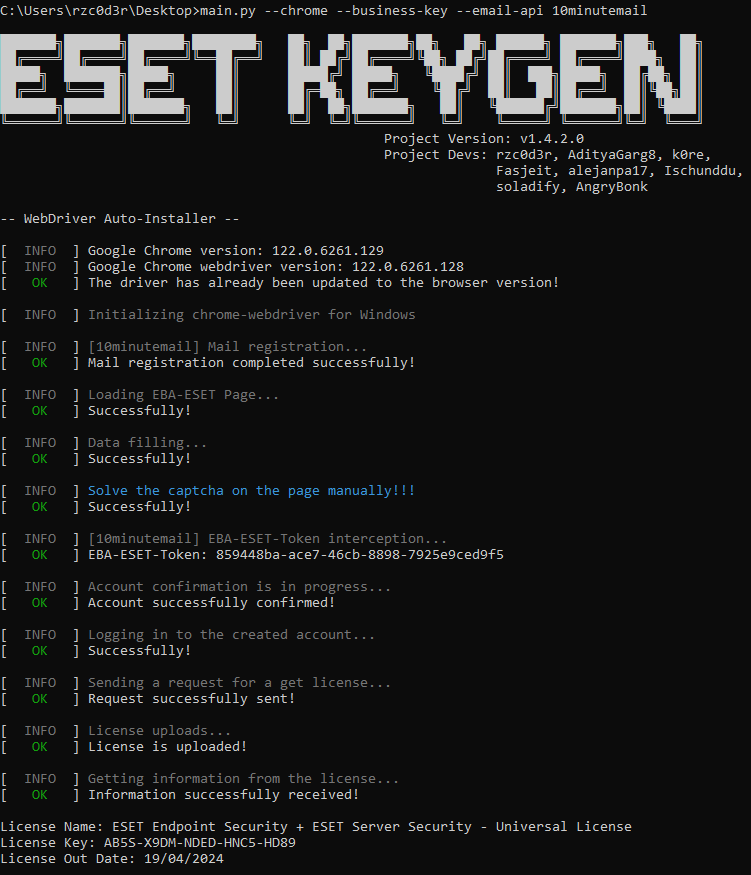
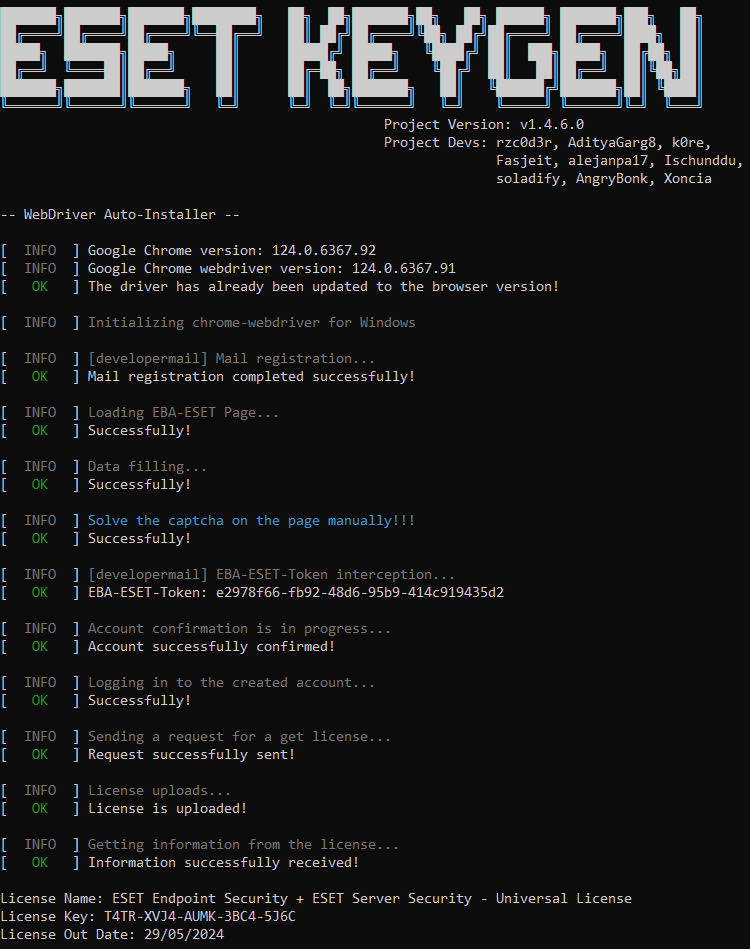
Update to v1.4.6.0
1. Disabled cloudflare captcha algorithm for Hi2InAPI (again hi2in is available in Github Actions)
2. Increased support for input mail address syntax (When using --custom-email-api)
Now xx-xx-xxxxxx@example.com is correct mail address syntax

3. Added developermail to --email-api
It email API is the fastest currently available, and it also works in Github Actions!

4. The default is now developermail instead of 1secmail
5. Updated documentation and screenshots

Changed region(s): [[0.0, 0.216, 0.8587, 1.0], [0.0, 0.0, 0.9813, 0.216]]

diff --git a/main.py b/main.py
@@ -12,6 +12,11 @@ import zipfile
 import shutil
 import random
 import string
+
+import email
+import email.parser
+from email import policy
+
 import time
 import sys
 import os
@@ -24,7 +29,7 @@ LOGO = """
 ██╔══╝  ╚════██║██╔══╝     ██║      ██╔═██╗ ██╔══╝    ╚██╔╝  ██║   ██║██╔══╝  ██║╚██╗██║   
 ███████╗███████║███████╗   ██║      ██║  ██╗███████╗   ██║   ╚██████╔╝███████╗██║ ╚████║   
 ╚══════╝╚══════╝╚══════╝   ╚═╝      ╚═╝  ╚═╝╚══════╝   ╚═╝    ╚═════╝ ╚══════╝╚═╝  ╚═══╝                                                                      
-                                                Project Version: v1.4.5.1
+                                                Project Version: v1.4.6.0
                                                 Project Devs: rzc0d3r, AdityaGarg8, k0re,
                                                               Fasjeit, alejanpa17, Ischunddu,
                                                               soladify, AngryBonk, Xoncia
@@ -159,6 +164,46 @@ class SecEmailAPI(object):
         if r.status_code != 200:
             raise RuntimeError('SecEmailAPI: API access error!')
         return r.json()
+
+class DeveloperMailAPI(object):
+    def __init__(self):
+        self.email = ''
+        self.email_name = ''
+        self.headers = {}
+        self.api_url = 'https://www.developermail.com/api/v1'
+    
+    def init(self):
+        r = requests.put(f'{self.api_url}/mailbox')
+        self.email_name, token = list(r.json()['result'].values())
+        self.email = self.email_name+'@developermail.com'
+        self.headers = {'X-MailboxToken': token}
+
+    def __parse_message(self, raw_message_body):
+        message_bytes = raw_message_body.encode('utf-8')
+        msg = email.parser.BytesParser(policy=policy.default).parsebytes(message_bytes)
+        message_subject = msg['subject']
+        message_from = msg['from']
+        message_body = str(msg.get_payload(decode=True).decode(msg.get_content_charset())) # decoding MIME-Type to html
+        return {'subject':message_subject, 'from':message_from, 'body':message_body}
+
+    def get_messages(self):
+        # get message IDs
+        r = requests.get(
+            f'{self.api_url}/mailbox/{self.email_name}',
+            headers=self.headers
+        )
+        message_ids = r.json()['result']
+        if message_ids == []:
+            return None
+        # parse messages
+        messages = []
+        for message_id in message_ids:
+            r = requests.get(f'{self.api_url}/mailbox/{self.email_name}/messages/{message_id}', headers=self.headers)
+            raw_message_body = r.json()['result']
+            messages.append(self.__parse_message(raw_message_body))
+        if messages == []:
+            messages = None
+        return messages
 
 class Hi2inAPI(object):
     def __init__(self, driver: Chrome):
@@ -435,6 +480,14 @@ class SharedTools(object):
                         activated_href = email_obj.get_message(message['id'])['body']
                     elif message['from'].find('product.eset.com') != -1:
                         activated_href = email_obj.get_message(message['id'])['body']
+            elif args['email_api'] == 'developermail':
+                messages = email_obj.get_messages()
+                if messages is not None:
+                    message = messages[-1]
+                    if eset_business and message['subject'].find('activation') != -1:
+                        activated_href = message['body']
+                    elif message['from'].find('product.eset.com') != -1:
+                        activated_href = message['body']
             elif args['email_api'] == 'hi2in':
                 email_obj.open_inbox()
                 try:
@@ -722,7 +775,7 @@ class EsetRegister(object):
                 token = SharedTools.parseToken(self.email_obj, self.driver, max_iter=100, delay=3)
                 self.driver.switch_to.window(self.window_handle)
             else:
-                token = SharedTools.parseToken(self.email_obj, max_iter=100, delay=3) # 1secmail
+                token = SharedTools.parseToken(self.email_obj, max_iter=100, delay=3) # 1secmail, developermail
         console_log(f'ESET-Token: {token}', OK)
         console_log('\nAccount confirmation is in progress...', INFO)
         self.driver.get(f'https://login.eset.com/link/confirmregistration?token={token}')
@@ -864,7 +917,7 @@ class EsetBusinessRegister(object):
                 token = SharedTools.parseToken(self.email_obj, self.driver, True, max_iter=100, delay=3)
                 self.driver.switch_to.window(self.window_handle)
             else:
-                token = SharedTools.parseToken(self.email_obj, eset_business=True, max_iter=100, delay=3) # 1secmail
+                token = SharedTools.parseToken(self.email_obj, eset_business=True, max_iter=100, delay=3) # 1secmail, developermail
         console_log(f'EBA-ESET-Token: {token}', OK)
         console_log('\nAccount confirmation is in progress...', INFO)
         self.driver.get(f'https://eba.eset.com/Account/InitActivation?token={token}')
@@ -947,9 +1000,9 @@ if __name__ == '__main__':
     args_parser.add_argument('--skip-webdriver-menu', action='store_true', help='Skips installation/upgrade webdrivers through the my custom wrapper (The built-in selenium-manager will be used)')
     args_parser.add_argument('--no-headless', action='store_true', help='Shows the browser at runtime (The browser is hidden by default, but on Windows 7 this option is enabled by itself)')
     args_parser.add_argument('--custom-browser-location', type=str, default='', help='Set path to the custom browser (to the binary file, useful when using non-standard releases, for example, Firefox Developer Edition)')
-    args_parser.add_argument('--email-api', choices=['1secmail', 'hi2in', '10minutemail', 'tempmail', 'guerrillamail'], default='1secmail', help='Specify which api to use for mail')
+    args_parser.add_argument('--email-api', choices=['1secmail', 'hi2in', '10minutemail', 'tempmail', 'guerrillamail', 'developermail'], default='developermail', help='Specify which api to use for mail')
     args_parser.add_argument('--custom-email-api', action='store_true', help='Allows you to manually specify any email, and all work will go through it. But you will also have to manually read inbox and do what is described in the documentation for this argument')
-    args_parser.add_argument('--try-auto-cloudflare',action='store_true', help='Removes the prompt for the user to press Enter when solving cloudflare captcha. In some cases it may go through automatically, which will give the opportunity to use TempMailAPI Hi2InAPI in automatic mode!')
+    args_parser.add_argument('--try-auto-cloudflare',action='store_true', help='Removes the prompt for the user to press Enter when solving cloudflare captcha. In some cases it may go through automatically, which will give the opportunity to use tempmail in automatic mode!')
     try:
         try:
             args = vars(args_parser.parse_args())
@@ -992,7 +1045,9 @@ if __name__ == '__main__':
                 email_obj = TempMailAPI(driver)
             elif args['email_api'] == 'guerrillamail':
                 email_obj = GuerRillaMailAPI(driver)
-            else:
+            elif args['email_api'] == 'developermail':
+                email_obj = DeveloperMailAPI()
+            elif args['email_api'] == '1secmail':
                 email_obj = SecEmailAPI()
             email_obj.init()
             console_log('Mail registration completed successfully!', OK)
@@ -1001,7 +1056,7 @@ if __name__ == '__main__':
             while True:
                 email = input(f'\n[  {Fore.YELLOW}INPT{Fore.RESET}  ] {Fore.CYAN}Enter the email address you have access to: {Fore.RESET}').strip()
                 try:
-                    matched_email = re.match(r"[a-z0-9]+@[a-z]+\.[a-z]{2,3}", email).group()
+                    matched_email = re.match(r"[-a-z0-9]+@[a-z]+\.[a-z]{2,3}", email).group()
                     if matched_email == email:
                         email_obj.email = matched_email
                         console_log('Mail has the correct syntax!', OK)

diff --git a/wiki/AccountGenerator.md b/wiki/AccountGenerator.md
@@ -1,5 +1,5 @@
 ## 1. Generation using implemented email APIs (Auto method, but less stable)
-> If you use ```--email-api tempmail``` or ```--email-api hi2in```, you need to have the cloudflare captcha solved!
+> If you use ```--email-api tempmail```, you need to have the cloudflare captcha solved!
 > Then you need to press Enter after you see the email site, without fail (**[INPT]** console message type)!
 
 > Also, if you see a message like **[INPT]** in the console, it means that you need to do keyboard input into the console!
@@ -22,7 +22,7 @@
   python main.py --chrome --account
   ```
   ```
-  ESET-KeyGen_v1.4.4.0_win64.exe --chrome --account
+  ESET-KeyGen_v1.4.6.0_win64.exe --chrome --account
   ```
   > File name is unique for each version! Do not copy the above command. This is an example!
 
@@ -40,11 +40,11 @@
   python main.py --chrome --business-account
   ```
   ```
-  ESET-KeyGen_v1.4.4.0_win64.exe --chrome --business-account
+  ESET-KeyGen_v1.4.6.0_win64.exe --chrome --business-account
   ```
   > File name is unique for each version! Do not copy the above command. This is an example!
   
-  > It is also recommended to use ```guerrillamail``` or ```10minutemail``` email api to generate such accounts. So if you are unable to generate this account, try different variations of the email APIs!
+  > It is also recommended to use ```developermail```, ```guerrillamail```, ```10minutemail``` email api to generate such accounts. So if you are unable to generate this account, try different variations of the email APIs!
 
   2. Wait until appears you will see *"Solve the captcha on the page manually!!!"*. Next, you will see a captcha with text input in the browser window created. You solve it and then just do nothing, the algorithm will do everything for you!
 
@@ -64,7 +64,7 @@
   python main.py --chrome --account --custom-email-api
   ```
   ```
-  ESET-KeyGen_v1.4.4.0_win64.exe --chrome --account --custom-email-api
+  ESET-KeyGen_v1.4.6.0_win64.exe --chrome --account --custom-email-api
   ```
   > File name is unique for each version! Do not copy the above command. This is an example!
 
@@ -95,7 +95,7 @@
   python main.py --chrome --business-account --custom-email-api
   ```
   ```
-  ESET-KeyGen_v1.4.4.0_win64.exe --chrome --business-account --custom-email-api
+  ESET-KeyGen_v1.4.6.0_win64.exe --chrome --business-account --custom-email-api
   ```
   > File name is unique for each version! Do not copy the above command. This is an example!
 

diff --git a/wiki/KeyGenerator.md b/wiki/KeyGenerator.md
@@ -1,5 +1,5 @@
 ## 1. Generation using implemented email APIs (Auto method, but less stable)
-> If you use ```--email-api tempmail``` or ```--email-api hi2in```, you need to have the cloudflare captcha solved!
+> If you use ```--email-api tempmail```, you need to have the cloudflare captcha solved!
 > Then you need to press Enter after you see the email site, without fail (**[INPT]** console message type)!
 
 > Also, if you see a message like **[INPT]** in the console, it means that you need to do keyboard input into the console!
@@ -22,7 +22,7 @@
   python main.py --chrome --key
   ```
   ```
-  ESET-KeyGen_v1.4.4.0_win64.exe --chrome --key
+  ESET-KeyGen_v1.4.6.0_win64.exe --chrome --key
   ```
   > File name is unique for each version! Do not copy the above command. This is an example!
 
@@ -40,11 +40,11 @@
   python main.py --chrome --business-key
   ```
   ```
-  ESET-KeyGen_v1.4.4.0_win64.exe --chrome --business-key
+  ESET-KeyGen_v1.4.6.0_win64.exe --chrome --business-key
   ```
   > File name is unique for each version! Do not copy the above command. This is an example!
 
-  > It is also recommended to use ```guerrillamail``` or ```10minutemail``` email api to generate such accounts. So if you are unable to generate this account, try different variations of the email APIs!
+  > It is also recommended to use ```developermail```, ```guerrillamail```, ```10minutemail``` email api to generate such accounts. So if you are unable to generate this account, try different variations of the email APIs!
 
   2. Wait until appears you will see *"Solve the captcha on the page manually!!!"*. Next, you will see a captcha with text input in the browser window created. You solve it and then just do nothing, the algorithm will do everything for you!
 
@@ -64,7 +64,7 @@
   python main.py --chrome --key --custom-email-api
   ```
   ```
-  ESET-KeyGen_v1.4.4.0_win64.exe --chrome --key --custom-email-api
+  ESET-KeyGen_v1.4.6.0_win64.exe --chrome --key --custom-email-api
   ```
   > File name is unique for each version! Do not copy the above command. This is an example!
 
@@ -95,7 +95,7 @@
   python main.py --chrome --business-key --custom-email-api
   ```
   ```
-  ESET-KeyGen_v1.4.4.0_win64.exe --chrome --business-key --custom-email-api
+  ESET-KeyGen_v1.4.6.0_win64.exe --chrome --business-key --custom-email-api
   ```
   > File name is unique for each version! Do not copy the above command. This is an example!
 

diff --git a/wiki/CommandLineArguments.md b/wiki/CommandLineArguments.md
@@ -27,7 +27,7 @@
 | ---------------------------------- | ------------------------------------------------------------------------------------------------------------------------------------ |
 | --skip-webdriver-menu              | Skips installation/upgrade webdrivers through the my custom wrapper (The built-in selenium-manager will be used)                     |
 | --no-headless                      | Shows the browser at runtime (The browser is hidden by default, but on (Windows 7) and (enabled --business-key or --business-account options) this option is enabled by itself)                   |
-| --custom-browser-location {string} | Set path to the custom browser (to the binary file, useful when using non-standard releases, for example, Firefox Developer Edition) |
-| --email-api {1secmail, hi2in, 10minutemail, tempmail, guerrillamail} | Specify which api to use for mail, default - 1secmail |
+| --custom-browser-location {string} | Set path to the custom browser (to the binary file, useful when using non-standard releases, for example: Firefox Developer Edition, Brave) |
+| --email-api {1secmail, hi2in, 10minutemail, tempmail, guerrillamail, developermail} | Specify which api to use for mail, default - developermail |
 | --custom-email-api | Allows you to manually specify any email, and all work will go through it - **Requires manually read inbox and do what is described in the documentation for this argument!!!**, **Also use this argument if you are unable to generate anything using all the implemented email APIs above**|
-| --try-auto-cloudflare | Removes the prompt for the user to press Enter when solving cloudflare captcha. In some cases it may go through automatically, which will give the opportunity to use ```--email-api tempmail```, ```--email-api hi2in``` in automatic mode! |
+| --try-auto-cloudflare | Removes the prompt for the user to press Enter when solving cloudflare captcha. In some cases it may go through automatically, which will give the opportunity to use ```--email-api tempmail``` in automatic mode! |

diff --git a/README.md b/README.md
@@ -1,5 +1,5 @@
 # ESET-KeyGen
-ESET-KeyGen - Trial-Key & Account generator for ESET Antivirus (last test was on 29.04.2024 at 19:16 UTC+3)
+ESET-KeyGen - Trial-Key & Account generator for ESET Antivirus (last test was on 29.04.2024 at 21:30 UTC+3)
 
 ![](img/project_preview.png)
 
